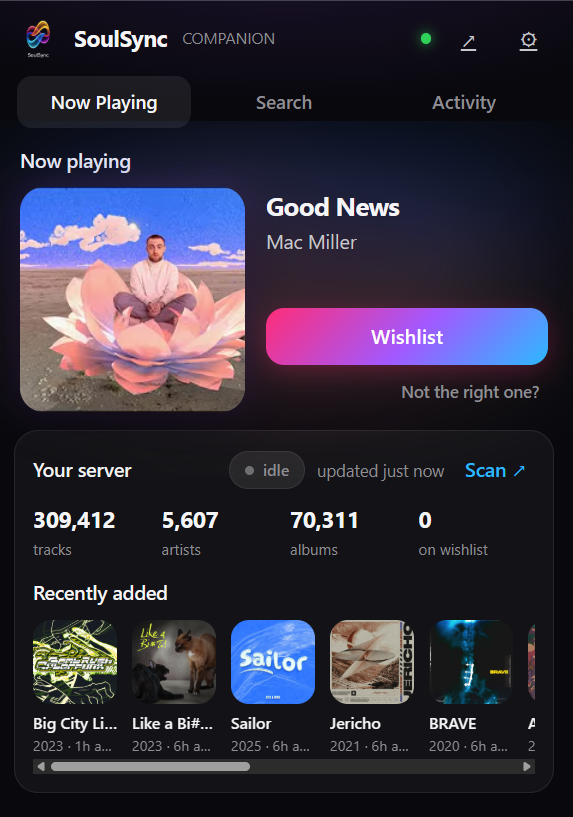
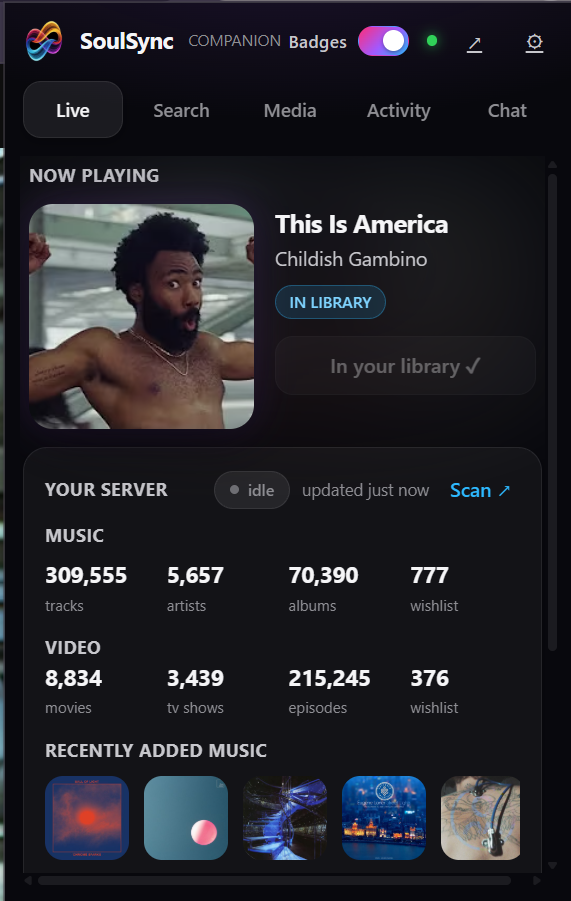
README: updated screenshots (popup, YouTube badges, player panel, Media tab)

diff --git a/README.md b/README.md
@@ -93,6 +93,10 @@ Manual track search across your metadata sources, with wishlist buttons on resul
 
 Your library, playable right in the extension. Unified music search across Artists, Albums, and Tracks — artist results start an artist radio, albums play straight through, tracks play immediately. No need to open the SoulSync web UI.
 
+<p align="center">
+  <img src="./docs/images/media-tab.png" alt="Media tab player" width="420">
+</p>
+
 ### Chat
 
 A mini version of the server chat — rooms, replies, emojis, file uploads. Same backend as the web UI's chat page.
@@ -114,6 +118,10 @@ A docked side panel that auto-opens when playback starts. Full player controls (
 - **Recently Played** — your server listening history; click to replay
 
 The panel also has its own library search at the top with the same Artists/Albums/Tracks sections as the Media tab.
+
+<p align="center">
+  <img src="./docs/images/player-panel.png" alt="Player panel with discovery shelves" width="420">
+</p>
 
 ---
 
